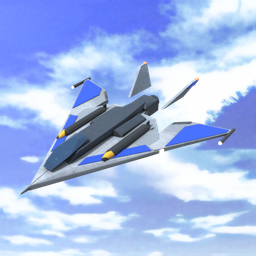
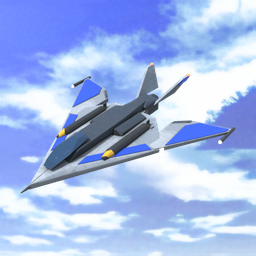
ARM_T2_AIR_Lancet: preview tails match the script
The script slides the tails 1.6, but the preview still used the COB's 4.6 and 5.0, so the unit picture showed them 3.3 and 2.9 off the hull. In game they were fine.

Changed region(s): [[0.0938, 0.2188, 0.9375, 0.75], [0.0625, 0.75, 0.0938, 0.7812]]

diff --git a/tools/s3okit/kit/units/ARM_T2_AIR_Lancet.py b/tools/s3okit/kit/units/ARM_T2_AIR_Lancet.py
@@ -27,7 +27,7 @@ UNIT = dict(
     always_visible=['wing1', 'wing2'],
     # flight pose: wings out and back, fins apart (engine x = -COB x)
     preview_pose={'wing1': {'move': (-6.5, 0, -12.75)}, 'wing2': {'move': (6.75, 0, -13.0)},
-                  'tail1': {'move': (-4.625, 0, 0)}, 'tail2': {'move': (5.0, 0, 0)}},
+                  'tail1': {'move': (-1.6, 0, 0)}, 'tail2': {'move': (1.6, 0, 0)}},
 )
 
 
